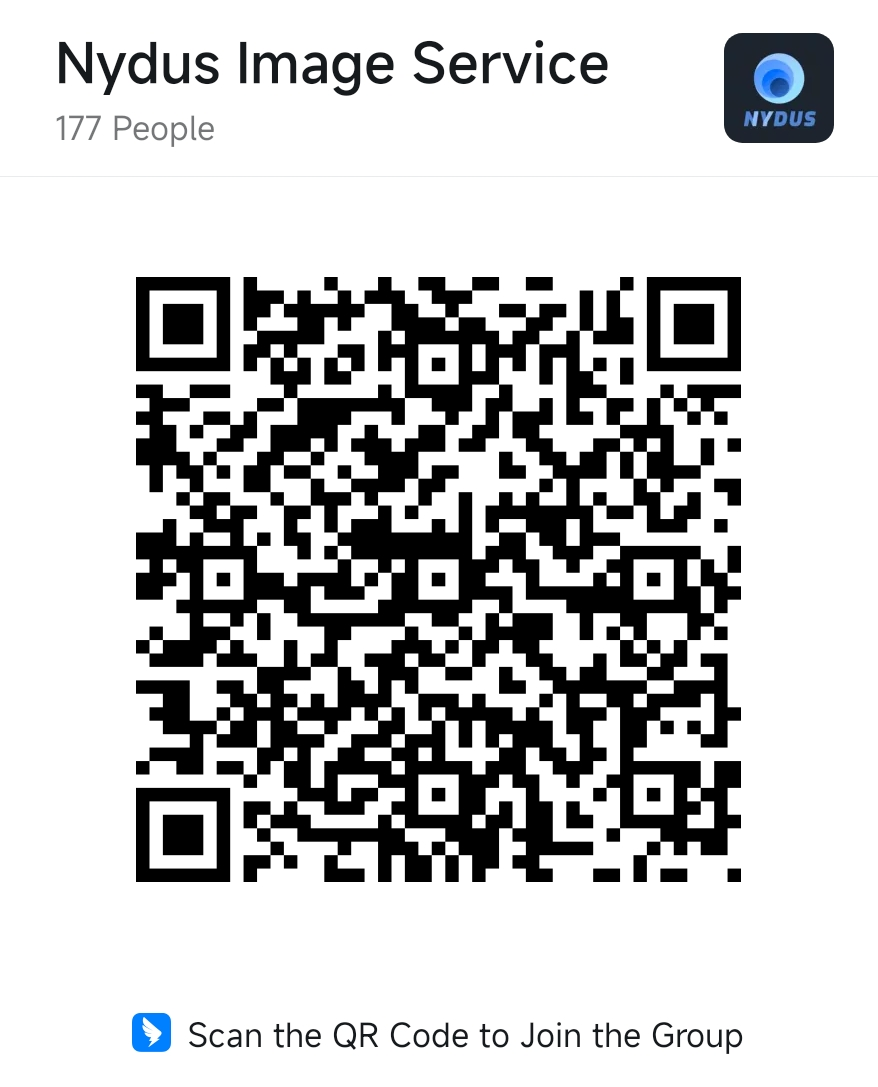
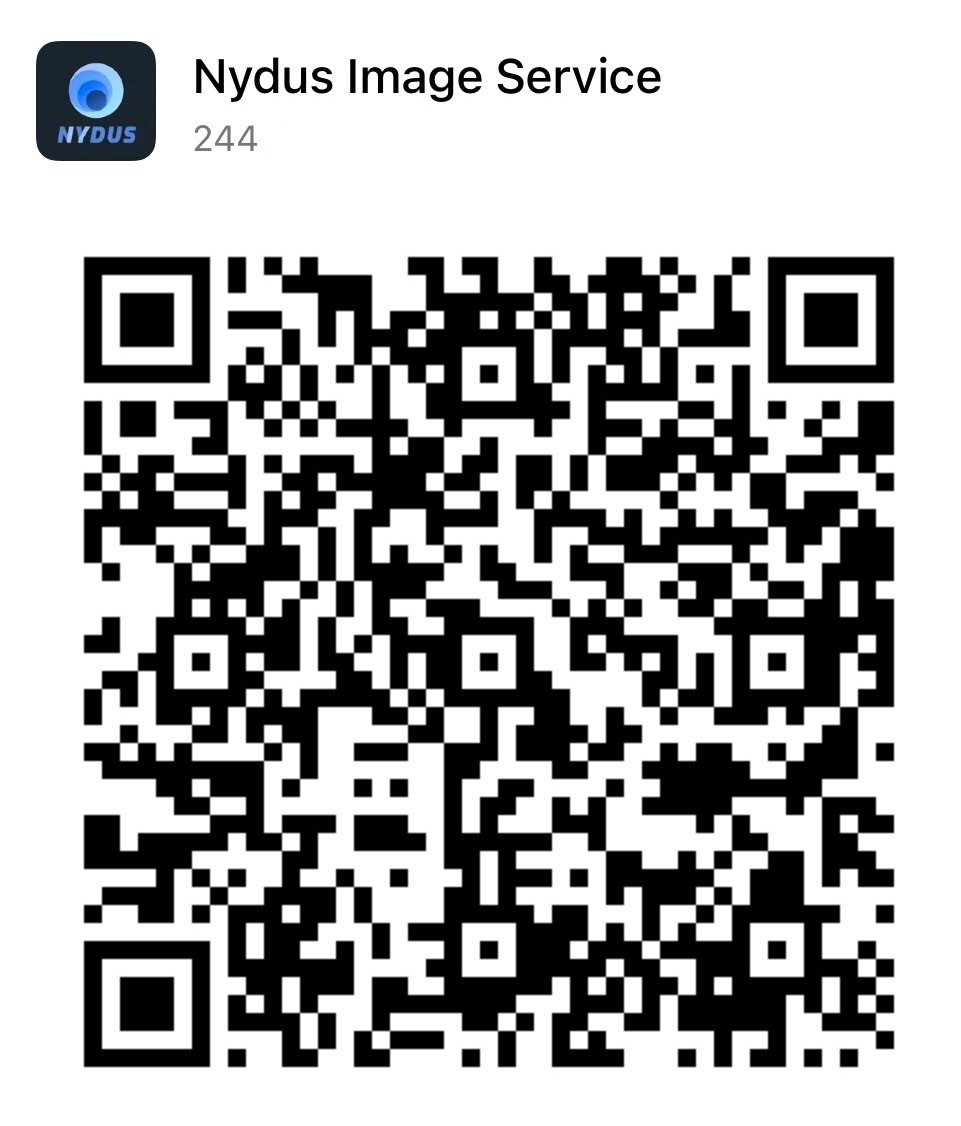
docs: update outdated dingtalk QR code
And remove the outdated technical meeting schedule.

diff --git a/README.md b/README.md
@@ -170,5 +170,3 @@ Feel free to reach us via Slack or Dingtalk.
 - **Dingtalk:** [34971767](https://qr.dingtalk.com/action/joingroup?code=v1,k1,ioWGzuDZEIO10Bf+/ohz4RcQqAkW0MtOwoG1nbbMxQg=&_dt_no_comment=1&origin=11)
 
 <img src="./misc/dingtalk.jpg" width="250" height="300"/>
-
-- **Technical Meeting:** Every Wednesday at 06:00 UTC (Beijing, Shanghai 14:00), please see our [HackMD](https://hackmd.io/@Nydus/Bk8u2X0p9) page for more information.
